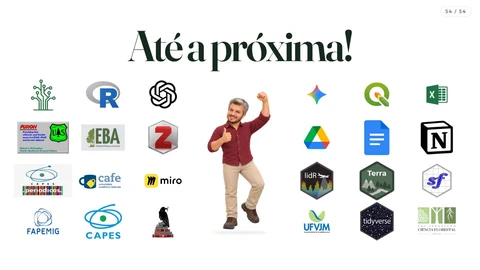
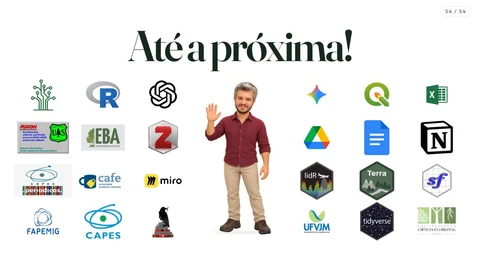
finalizado

Changed region(s): [[0.4062, 0.2963, 0.5625, 0.8889]]

diff --git a/slide-overview.js b/slide-overview.js
@@ -82,7 +82,7 @@
       const theme = document.body.classList.contains('projector') ? 'light' : 'original';
       const current = getCurrentSlide();
       cards.forEach(card => {
-        card.image.src = `assets/slides/${theme}/${String(card.slide).padStart(2, '0')}.webp?v=20261026-despedida-acumulada-24`;
+        card.image.src = `assets/slides/${theme}/${String(card.slide).padStart(2, '0')}.webp?v=20261026-despedida-tchau-final`;
         card.button.classList.toggle('is-current', card.slide === current);
         if (card.slide === current) card.button.setAttribute('aria-current', 'page');
         else card.button.removeAttribute('aria-current');

diff --git a/index.html b/index.html
@@ -742,11 +742,11 @@
 <script src="closing-life-tree.js?v=4cf7d0e03e5b"></script>
 <script src="cover-ambient.js?v=c1a9720e78ee"></script>
 <script src="people-clock.js?v=1d56be0c2baa"></script>
-<script src="closing-guest.js?v=cec354e0d955"></script>
+<script src="closing-guest.js?v=71ed1378306e"></script>
 <script src="foliage-intro.js?v=beaa0df02c16"></script>
 <script src="bookends.js?v=10c9e34ed564"></script>
 <script src="projector-theme.js?v=d73ce17c23a6"></script>
-<script src="slide-overview.js?v=3b66d46094d2"></script>
+<script src="slide-overview.js?v=3873b96efe40"></script>
 <script src="main.js?v=17fc735998a8"></script>
 </body>
 </html>

diff --git a/closing-guest.js b/closing-guest.js
@@ -147,7 +147,7 @@
         }, .8)
         .call(() => pose('wave'), [], 3.1)
 
-        // O R sobe em arco, pousa no cabelo e provoca a careta.
+        // O R sobe em arco, pousa no cabelo e retorna à lateral.
         .call(() => interaction('r-balance'), [], 4.8)
         .set(props.r, { left: '30%', top: '48%', scale: .75, rotation: -18, autoAlpha: 1 }, 4.8)
         .to(props.r, { left: '44%', top: '31%', scale: .55, rotation: 12, duration: .9, ease: 'power2.out' }, 4.8)
